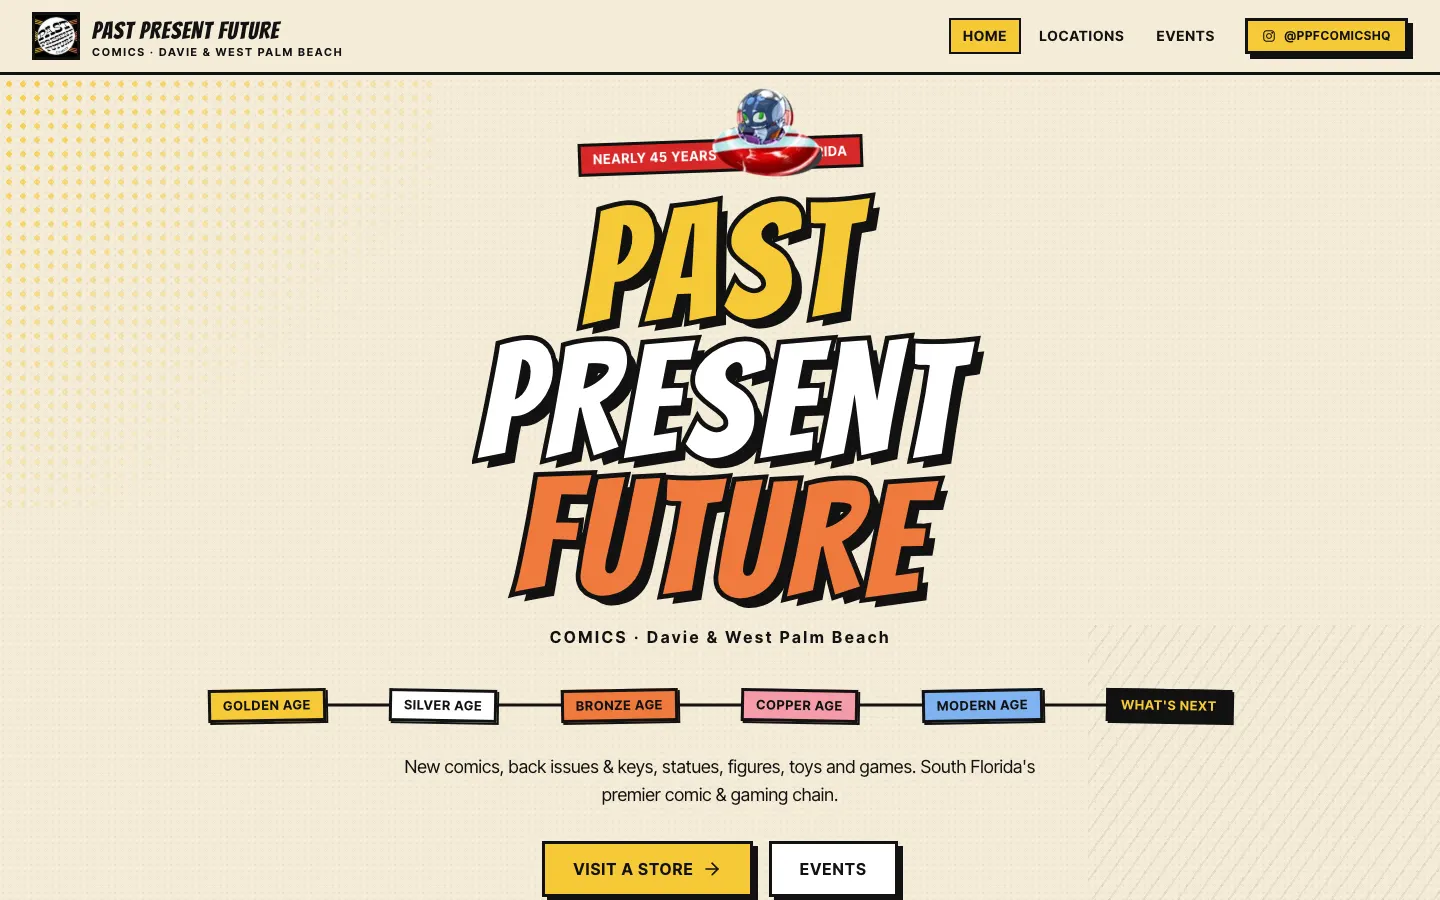
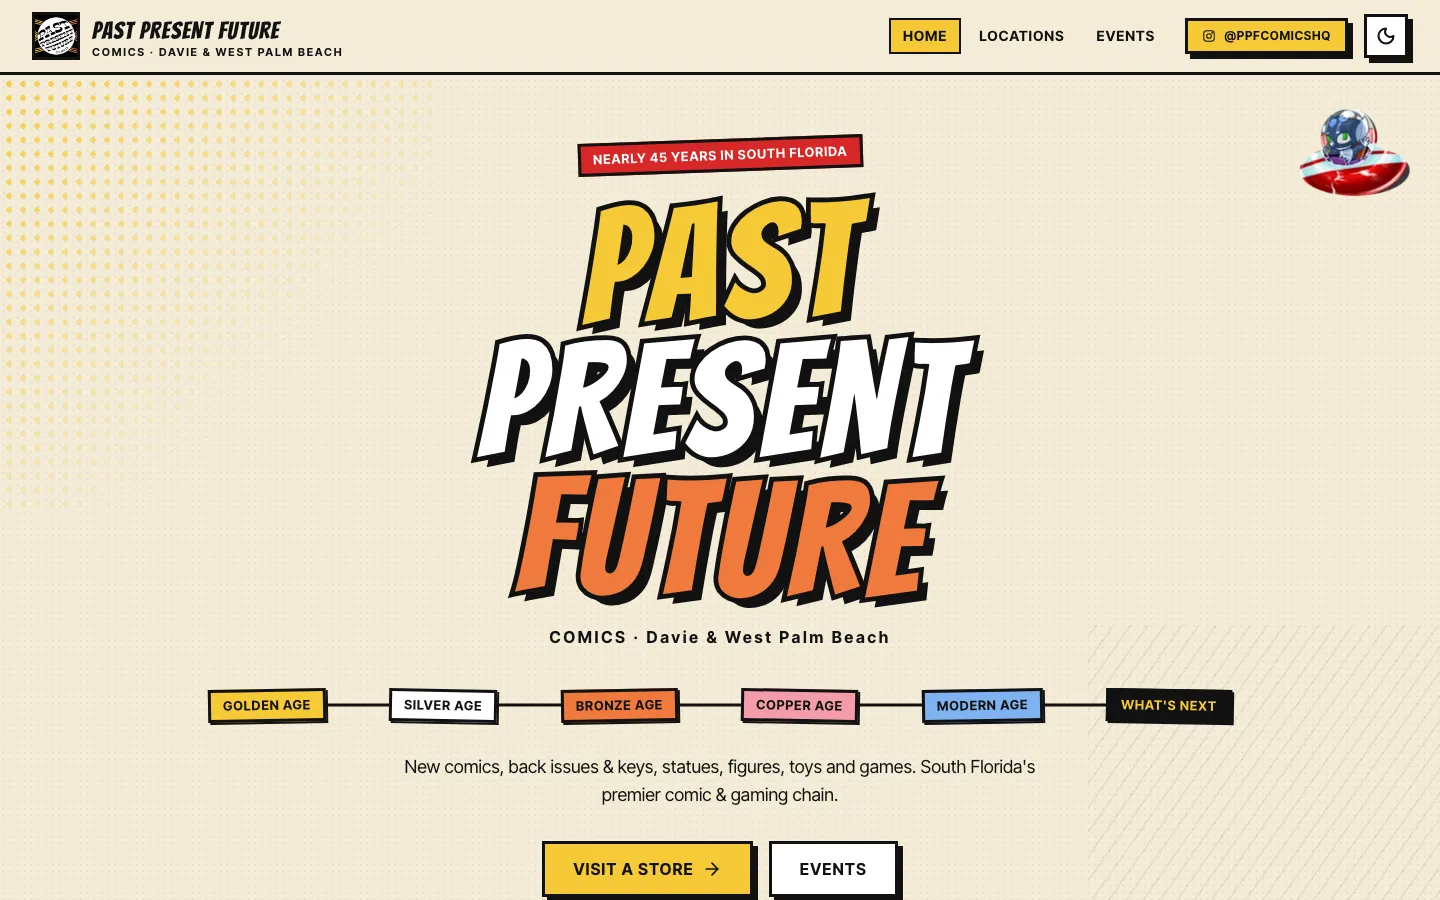
Link the PPF Comics concept and retake its screenshots

diff --git a/src/data/projects.js b/src/data/projects.js
@@ -18,7 +18,8 @@
 //    featured     true = the large case study, with its testimonial
 //                 (testimonials.js, project: <id>)
 //    published    false = hidden
-//  Screenshots are taken from the live sites with Playwright.
+//  Screenshots are taken from the live sites with Playwright. Clients' own
+//  locations are fine to show; House of Reign's copy stays location-neutral.
 // ─────────────────────────────────────────────────────────────
 
 export const categories = [
@@ -87,10 +88,10 @@ export const projects = [
     id: "ppf-comics",
     category: "retail",
     name: "Past Present Future Comics",
-    kind: "Comic shop with two locations",
+    kind: "Comic shop in Davie and West Palm Beach",
     description: "A redesign for a comic shop that has been open for over 40 years.",
     tag: "Concept",
-    url: "",
+    url: "https://ppf-comics.franckbuildswebsites.workers.dev",
     desktop: "/portfolio/ppf-comics-desktop.webp",
     mobile: "/portfolio/ppf-comics-mobile.webp",
     before: "/portfolio/ppf-before.webp",

diff --git a/PROGRESS.md b/PROGRESS.md
@@ -14,12 +14,11 @@ Hero → Work → Pricing → How it works → About → Contact → Footer.
 
 - 2026-10-22 redesign: cut the filler (animated fake-bakery hero, trust strip, marquee, design-service cards, FAQ, extra CTA band, custom cursor, floating button, giant footer wordmark). Real work is the centerpiece.
 - Work grouped by industry: Professional Services (Go Digital Hero, featured, with Jason's quote and "View original"), Food & Drink (Wicked Bread Co., concept), Retail & Hobby (Token Forge; Past Present Future Comics, concept), Events & Nonprofits (MM Casino Party, Champions4Character). PPF and C4C have a "See the old site" toggle.
-- Screenshots retaken from the live sites with Playwright on 2026-10-22 (PPF kept from its earlier preview).
+- Screenshots retaken from the live sites with Playwright on 2026-10-22.
 - Payment model on the site: build first, client sees a private preview, pays in full, one revision list, launch. No deposit.
-- Location kept off the site; owner shown as "Francisco" only.
+- House of Reign's own copy is location-neutral (open to businesses anywhere); owner shown as "Francisco" only. Client locations in their projects are fine.
 
 ## Open items
 
 - `public/me.jpg` + `PHOTO` in `src/config.js` (hero shows three real sites until then).
-- Past Present Future Comics demo URL (no "View the concept" link until there is one; screenshots are from the earlier preview).
 - `public/og-image.jpg` (1200×630 share image), `SITE_URL` in `src/config.js` after deploying.
